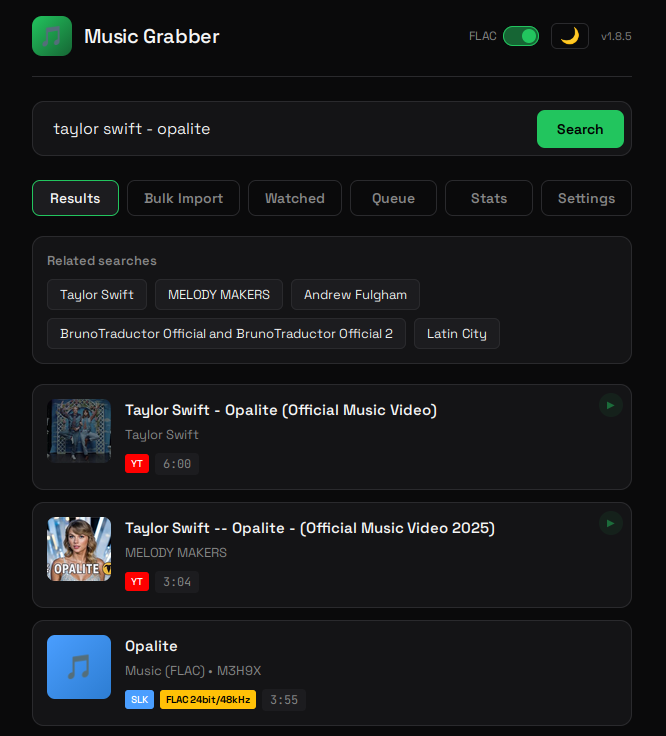
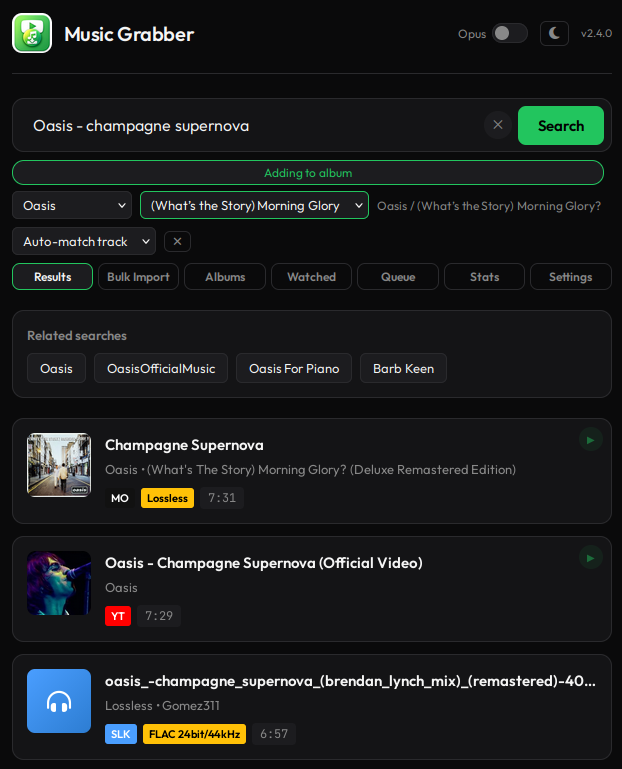
v2.4.1: ListenBrainz weekly playlist URL auto-rotation + README/screenshots
Built with a human and a grumpy-AI combo

diff --git a/static/release-notes.js b/static/release-notes.js
@@ -13,7 +13,8 @@ const RELEASE_NOTES = {
             {
                 heading: "Bug fix",
                 items: [
-                    "ListenBrainz 'Created for You' playlists (Weekly Exploration, Weekly Jams, etc.) rotate to a new URL every Monday. MusicGrabber was storing the old UUID and refreshing a dead playlist forever. It now re-resolves the current week's URL automatically when it hits a 404 — no manual re-adding needed.",
+                    "ListenBrainz 'Created for You' playlists (Weekly Exploration, Weekly Jams, etc.) rotate to a new URL every Monday. MusicGrabber was storing the old UUID and refreshing a dead playlist forever. It now re-resolves the current week's URL automatically going forward.",
+                    "Action required for existing users: delete your ListenBrainz watched playlist cards and re-add them using your ListenBrainz username. This lets MusicGrabber store the information it needs to auto-update the URL each week. Cards added before this update won't self-heal.",
                 ]
             }
         ]

diff --git a/watched_playlists.py b/watched_playlists.py
@@ -12,6 +12,7 @@ import sqlite3
 import subprocess
 import threading
 import time
+from datetime import datetime, timezone
 
 from fastapi import HTTPException
 
@@ -761,44 +762,56 @@ def refresh_watched_playlist(playlist_id: str) -> dict:
         try:
             # Fetch current tracks
             set_refresh_stage("fetching")
-            # ListenBrainz "Created for You" playlists rotate weekly — if the stored UUID is stale,
-            # re-resolve via the createdfor API and update the URL before fetching.
+            # ListenBrainz "Created for You" playlists rotate every Monday — check the date stamp in
+            # the playlist name ("week of YYYY-MM-DD") and proactively re-resolve if it's ≥6 days old.
+            # Also re-resolves reactively on 404 in case the name date wasn't parseable.
             if playlist["platform"] == "listenbrainz" and playlist.get("lb_username"):
-                try:
-                    tracks, _ = fetch_playlist_tracks(playlist["url"], playlist["platform"])
-                except HTTPException as e:
-                    if e.status_code != 404:
-                        raise
-                    # Stale UUID — ask ListenBrainz for the current week's playlists and find ours by name
-                    print(f"ListenBrainz playlist '{playlist['name']}' returned 404 — re-resolving via createdfor API")
+                playlist_name = playlist["name"] or ""
+
+                def _lb_needs_reresolution() -> bool:
+                    m = re.search(r'week of (\d{4}-\d{2}-\d{2})', playlist_name)
+                    if not m:
+                        return False
+                    try:
+                        week_date = datetime.strptime(m.group(1), "%Y-%m-%d").replace(tzinfo=timezone.utc)
+                        age_days = (datetime.now(timezone.utc) - week_date).days
+                        return age_days >= 6
+                    except ValueError:
+                        return False
+
+                def _lb_reresolution_fetch() -> list:
+                    """Re-query createdfor API, update stored URL, return tracks."""
+                    print(f"ListenBrainz playlist '{playlist_name}' appears stale — re-resolving via createdfor API")
                     lb_playlists = fetch_listenbrainz_createdfor(playlist["lb_username"])
-                    playlist_name = playlist["name"] or ""
-                    # Match by exact name first, then by prefix (name stems like "Weekly Exploration for X")
-                    matched = next(
-                        (p for p in lb_playlists if p["name"] == playlist_name),
-                        None,
-                    )
+                    # Exact name match first, then prefix ("Weekly Exploration for X, week of ..." -> "Weekly Exploration for X")
+                    matched = next((p for p in lb_playlists if p["name"] == playlist_name), None)
                     if not matched:
-                        # Prefix match: "Weekly Exploration for g33kphr33k, week of ..." -> "Weekly Exploration for g33kphr33k"
-                        name_prefix = playlist_name.split(", week of")[0].split(", ")[0]
-                        matched = next(
-                            (p for p in lb_playlists if p["name"].startswith(name_prefix)),
-                            None,
-                        )
+                        name_prefix = playlist_name.split(", week of")[0]
+                        matched = next((p for p in lb_playlists if p["name"].startswith(name_prefix)), None)
                     if not matched:
                         raise HTTPException(
                             status_code=404,
                             detail=f"ListenBrainz playlist '{playlist_name}' not found in current createdfor list for '{playlist['lb_username']}'"
                         )
                     new_url = matched["playlist_url"]
-                    conn.execute(
-                        "UPDATE watched_playlists SET url = ? WHERE id = ?",
-                        (new_url, playlist_id)
-                    )
-                    conn.commit()
-                    playlist["url"] = new_url
-                    print(f"Updated ListenBrainz URL for '{playlist_name}' to {new_url}")
-                    tracks = matched["tracks"]
+                    if new_url != playlist["url"]:
+                        conn.execute("UPDATE watched_playlists SET url = ?, name = ? WHERE id = ?",
+                                     (new_url, matched["name"], playlist_id))
+                        conn.commit()
+                        playlist["url"] = new_url
+                        playlist["name"] = matched["name"]
+                        print(f"Updated ListenBrainz URL for '{matched['name']}' to {new_url}")
+                    return matched["tracks"]
+
+                if _lb_needs_reresolution():
+                    tracks = _lb_reresolution_fetch()
+                else:
+                    try:
+                        tracks, _ = fetch_playlist_tracks(playlist["url"], playlist["platform"])
+                    except HTTPException as e:
+                        if e.status_code != 404:
+                            raise
+                        tracks = _lb_reresolution_fetch()
             else:
                 tracks, _ = fetch_playlist_tracks(playlist["url"], playlist["platform"])
 

diff --git a/README.md b/README.md
@@ -4,7 +4,7 @@
 
 I've hit my own personal milestone with this project. It's as feature-complete as I ever intended it to be. This project is for music searching, playlist expanding, and artist discovery, while keeping your music locally hosted. That said, although MusicGrabber can pull and store your music locally, if you enjoy an artist, support them and buy their music if you can afford to.
 
-This project is a mash up of humand and AI, I will not hide that. If you're against AI code being used, please walk by this project. However, it is fully reviewed, security peer-checked and regularly pulled apart by humans.
+This project is a mash up of human and AI, I will not hide that. If you're against AI code being used, please walk by this project. However, it is fully reviewed, security peer-checked and regularly pulled apart by vicious and cold hearted humans, as well as clinical AI agents.
 
 **v2.4.1**
 
@@ -70,13 +70,17 @@ For YouTube and SoundCloud, FLAC conversion is primarily for standardisation and
 
 ## Screenshots
 
-| Search & Results | Bulk Import | Queue |
+| Search & Results | Albums | Queue |
 |:---:|:---:|:---:|
-| ![Search and Results](assets/SearchAndResults.png) | ![Bulk Import](assets/BulkImport.png) | ![Queue](assets/Queue.png) |
+| ![Search and Results](assets/SearchAndResults.png) | ![Album Mode](assets/AlbumMode.png) | ![Queue](assets/Queue.png) |
 
-| Watched Playlists | Settings | Dark & Light Theme |
+| Watched Playlists | Bulk Import | Settings |
 |:---:|:---:|:---:|
-| ![Watched Playlists](assets/WatchedPlaylists.png) | ![Settings](assets/SettingsTab.png) | ![Dark and Light Theme](assets/NightAndDay.png) |
+| ![Watched Playlists](assets/WatchedPlaylists.png) | ![Bulk Import](assets/BulkImport.png) | ![Settings](assets/SettingsTab.png) |
+
+| Integrations & Cookies | Notifications | Dark & Light Theme |
+|:---:|:---:|:---:|
+| ![Integrations and Cookies](assets/IntegrationsAndCookies.png) | ![Notifications](assets/Notifications.png) | ![Dark and Light Theme](assets/NightAndDay.png) |
 
 ## Quick Start
 

diff --git a/CHANGELOG.md b/CHANGELOG.md
@@ -3,7 +3,7 @@
 ## v2.4.1 (2026-03-12)
 
 ### Fixed
-- **ListenBrainz weekly playlist URL rotation**: "Created for You" playlists (Weekly Exploration, Weekly Jams, etc.) are regenerated every Monday with a new UUID. The watched entry stored the old URL and would 404 forever. MusicGrabber now stores the ListenBrainz username alongside the playlist entry; on a 404 during refresh it re-queries the `createdfor` API, matches by playlist name, updates the stored URL automatically, and continues as normal. No manual intervention needed.
+- **ListenBrainz weekly playlist URL rotation**: "Created for You" playlists (Weekly Exploration, Weekly Jams, etc.) are regenerated every Monday with a new UUID. The watched entry stored the old URL and would 404 forever. MusicGrabber now stores the ListenBrainz username alongside the playlist entry; on a 404 during refresh it re-queries the `createdfor` API, matches by playlist name, updates the stored URL automatically, and continues as normal. **Existing users should delete their ListenBrainz watched playlist cards and re-add them via their username** — cards added before this update don't have the username stored and won't self-heal.
 
 ## v2.4.0 (2026-03-12)
 
